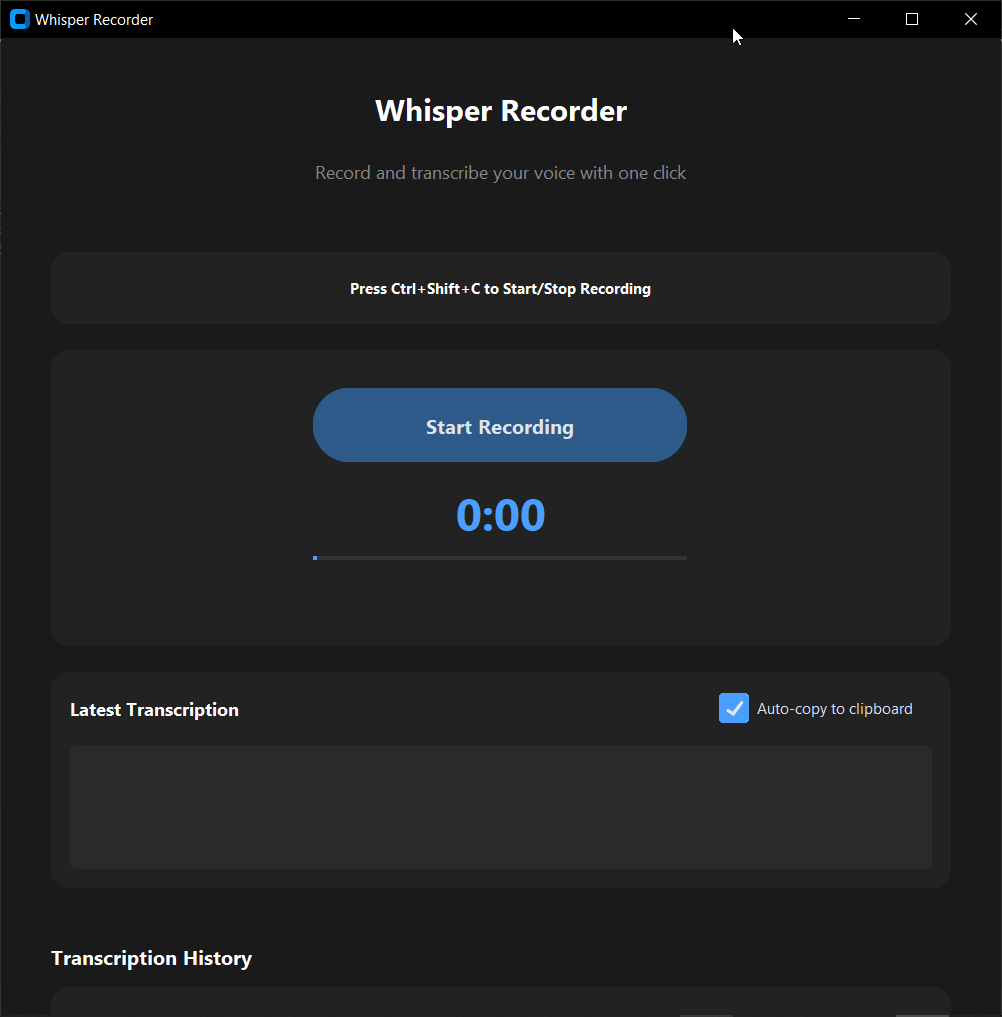
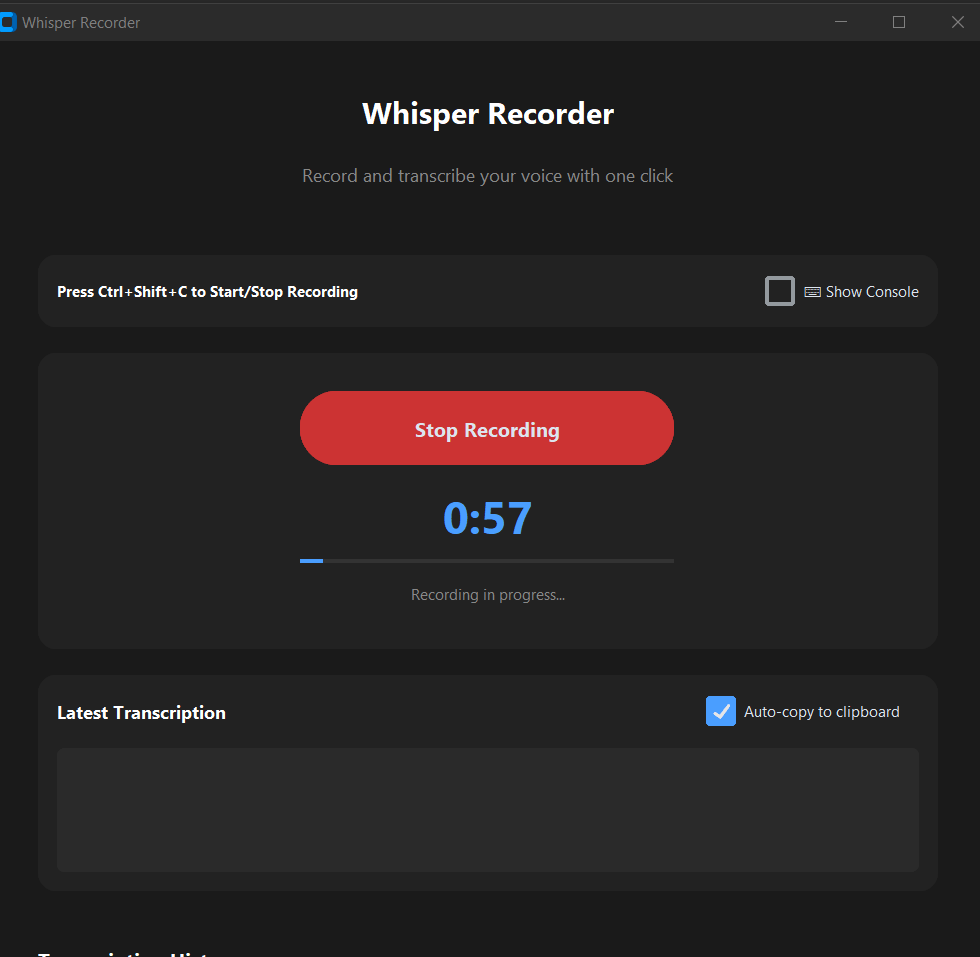
Update screenshots with latest versions

diff --git a/README.md b/README.md
@@ -6,7 +6,7 @@ A modern desktop application that records audio and transcribes it in real-time 
 ## Screenshots
 
 ### Main Interface
-![Main Interface](screenshots/main_interface_v1.png)
+![Main Interface](screenshots/main_interface.png)
 *The main application window showing the recording interface, latest transcription, and history.*
 
 ### Recording in Progress
